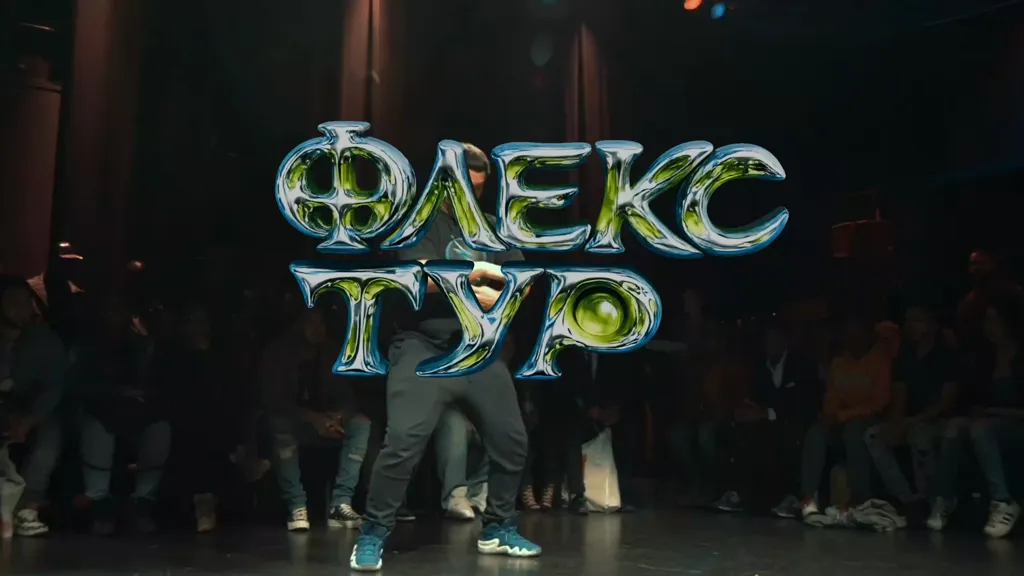
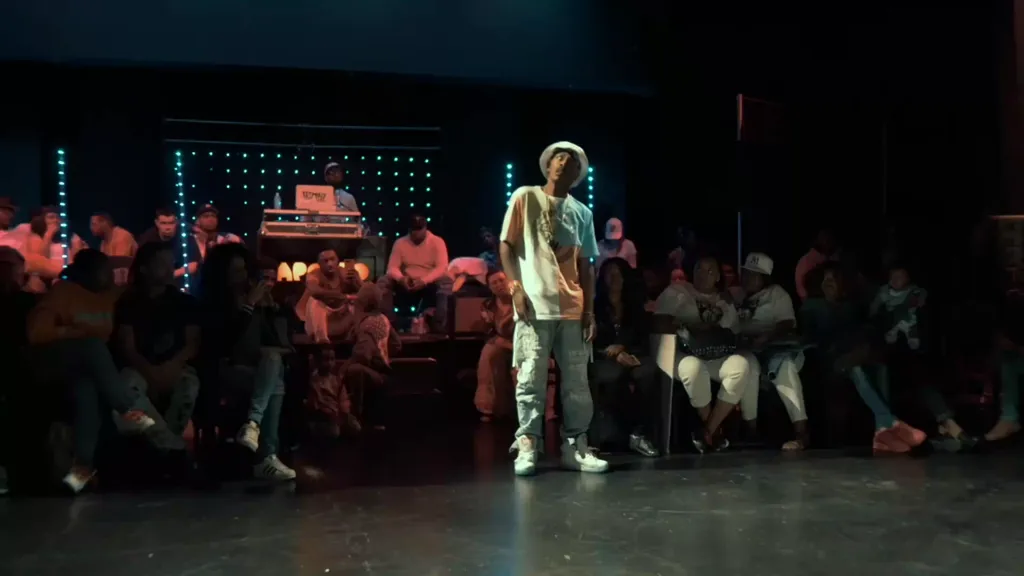
chore: swap the backdrop video and re-cut the still that stands in for it
public/hero-backdrop.webp is frame 0 of the backdrop video, and
HeroBackgroundVideo paints it under the player until the player is playing.
Changing KINESCOPE_BACKGROUND_VIDEO_ID therefore invalidates that asset: the
still would have kept showing the old video's opening while the new one faded
in over it, which is the cloud-texture cut this arrangement exists to avoid.

Re-cut from the new video by the procedure in KINESCOPE_PLAYER_SURFACE.md.
The new video carries the same provider configuration the surface depends on
— videoFit "cover" and primary #B7FF00 — asserted from its embed document.

Verified on the built export: the backdrop resolves to keT1Wc, the still is
painted from first paint and stays painted across the handover, and the old
ID appears nowhere in out/.

diff --git a/components/kinescope/videoIds.ts b/components/kinescope/videoIds.ts
@@ -1,4 +1,4 @@
 // Kinescope playback IDs are public identifiers, so deployment-time
 // configuration would only make the two hero surfaces harder to follow.
 export const KINESCOPE_HERO_VIDEO_ID = "i7n65WzZnSd4bVUBE1mzi5";
-export const KINESCOPE_BACKGROUND_VIDEO_ID = "8ELYTMWXYgz19TjEzqK75J";
+export const KINESCOPE_BACKGROUND_VIDEO_ID = "keT1Wc9ozg7ejFBVYJmhLz";

diff --git a/docs/release/KINESCOPE_PLAYER_SURFACE.md b/docs/release/KINESCOPE_PLAYER_SURFACE.md
@@ -31,7 +31,7 @@ The embed document carries the resolved configuration, so it can be asserted
 from anywhere without credentials:
 
 ```sh
-for id in i7n65WzZnSd4bVUBE1mzi5 8ELYTMWXYgz19TjEzqK75J; do
+for id in i7n65WzZnSd4bVUBE1mzi5 keT1Wc9ozg7ejFBVYJmhLz; do
   curl -s "https://kinescope.io/embed/$id" \
     | grep -oE '"(theme|ui)":\{[^{}]*(\{[^{}]*\}[^{}]*)*\}'
 done
@@ -42,7 +42,7 @@ Expect `"videoFit":"cover"` in `ui`, and `"colors":{"primary":"#B7FF00"}` in
 
 ## The committed still must stay frame 0 of the backdrop video
 
-`public/hero-backdrop.webp` is frame 0 of `8ELYTMWXYgz19TjEzqK75J`, and
+`public/hero-backdrop.webp` is frame 0 of `keT1Wc9ozg7ejFBVYJmhLz`, and
 `HeroBackgroundVideo` paints it under the player until the player is actually
 playing. The whole arrangement rests on the two images being the same picture:
 that is what lets the loader hand over on its ceiling, and what reduced-motion
